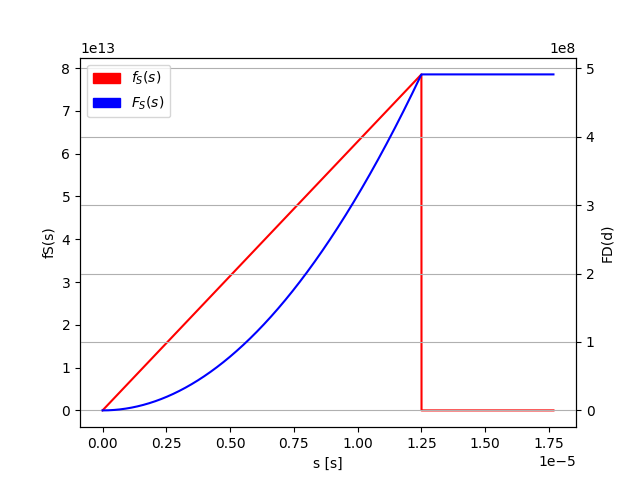
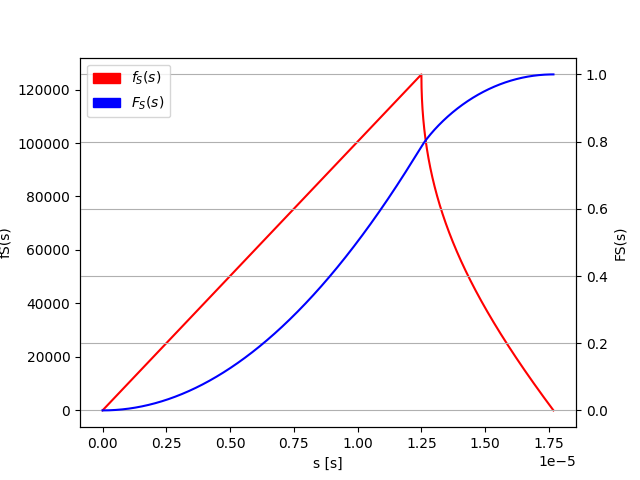
validation

diff --git a/scripts/distance_serviceTime_distributions.py b/scripts/distance_serviceTime_distributions.py
@@ -4,17 +4,16 @@ import numpy as np
 import csv
 
 M = 25000
-k = 1.6e-9 #???
-T = 0.000000001
+k = 1.6*10**(-9)
+T = 1*10**(-9)
 
 ### Distribution of Distance
 # PDF of distance
 def fd(d):
     if d >= 0 and d <= M/2:
         return k*2*np.pi*d
-    #elif d > M/2 and d <= M/(2**(1/2)):
-        #return k*(2*np.pi*d - 8*d*np.arccos(M/(2*(2**(1/2))*d)))
-        #return k*4*d*(np.pi/2 - 2*np.arccos(M/2/d))
+    elif d > M/2 and d <= M/(2**(1/2)):
+        return k*(2*np.pi*d - 8*d*np.arccos(M/(2*d)))
     else:
         return 0
 
@@ -23,6 +22,7 @@ f = []
 
 # compute fd in our interval of interest
 d = np.arange(0, (M * 2**0.5 / 2))
+#d = np.arange(0, (M / 2))
 for i in d:
     f.append(fd(i))
 
@@ -61,19 +61,14 @@ plt.figure()
 
 def fs(s):
     if s >= 0 and s <= (T * M ) / 2:
-    #if s >= 0 and s <= (T * M**2 ) / 4:
-        return 2*np.pi*s / ( T **2 )
-        #return np.pi / ( T * M**2 )
-    #elif s > (T * M ) / 2 and s <= (T * M * (2**0.5) ) / 2:
-    #elif s >= (T * M**2 ) / 4 and s <= (T * M**2) / 2:
-        #return (2*np.pi*s / (T**2)) - (8 * s/ (T **2)) * np.arccos((M*T*(2**0.5))/(2*s))
-        #return (np.pi / (T * M**2)) - (4 / (T * M**2)) * np.arccos(M/2 * ((T / s)**0.5))
+        return k * ( (2*np.pi*s) / ( T**2) )
+    elif s > (T * M ) / 2 and s <= (T * M * (2**0.5) ) / 2:
+        return  k * ( ( (2*np.pi*s) / (T**2)) - ( (8 * s)/ (T**2)) * np.arccos((M*T)/(2*s)))
     else:
         return 0
 
 ### Distribution of Service Time
 s = T * d
-#s = T * d ** 2
 f = []
 for i in s:
     f.append(fs(i))
@@ -98,7 +93,7 @@ ax1.plot(s, f, 'r-')
 ax2 = ax1.twinx()
 
 color = 'tab:blue'
-ax2.set_ylabel('FD(d)')
+ax2.set_ylabel('FS(s)')
 ax2.plot(s, integral, 'b-')
 
 handles = []
